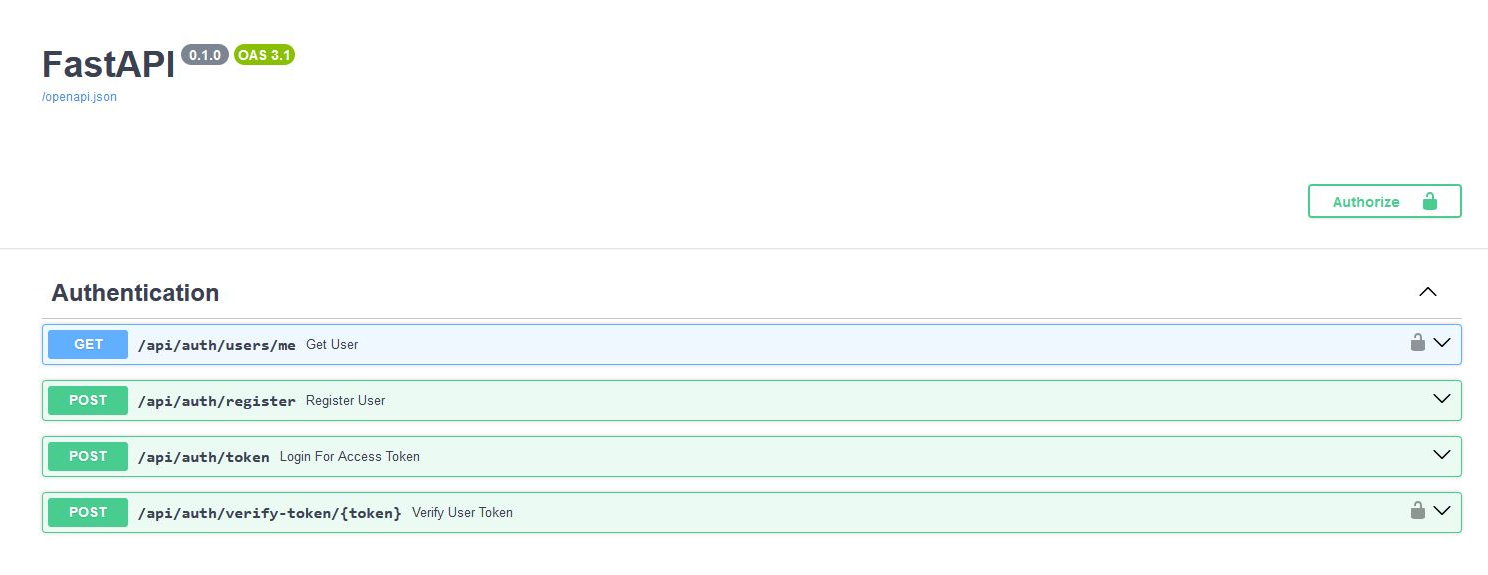
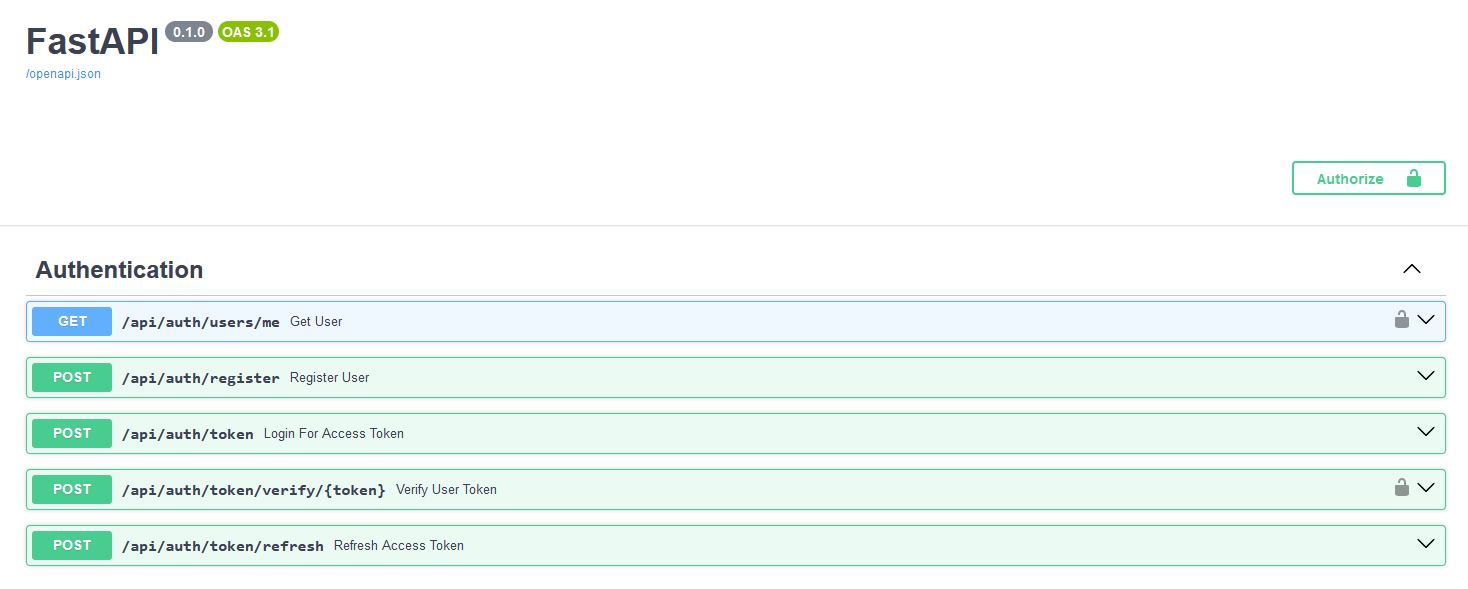
Zentra API - Auth updates (v0.1.13)
- docs(auth): Updated docs to accommodate auth changes (v0.1.13). (#5)

Changed region(s): [[0.0, 0.4435, 1.0, 0.9757], [0.0, 0.0296, 0.2146, 0.1774], [0.8583, 0.2661, 1.0, 0.3843]]

diff --git a/docs/api/tutorial/authentication.md b/docs/api/tutorial/authentication.md
@@ -37,7 +37,7 @@ The `auth` directory is just another set of API routes but separated for conveni
     We plan to add a `--no-auth` flag in a future version that will do all of this for you, but 9 times out of 10 you'll need authentication anyway! 😁
 
 
-The main thing you need to know here is how the routes works, rather than the underlying functionality. Feel free to explore the code yourself! It's almost identical to this [FastAPI [:material-arrow-right-bottom:]](https://fastapi.tiangolo.com/tutorial/security/oauth2-jwt/) security tutorial just with a bit of Zentra flair.
+The main thing you need to know here is how the routes work, rather than the underlying functionality. Feel free to explore the code yourself! It's an extension of the [FastAPI [:material-arrow-right-bottom:]](https://fastapi.tiangolo.com/tutorial/security/oauth2-jwt/) security tutorial with refresh tokens and a bit of Zentra flair 😉.
 
 Okay, now let's check out our routes!
 
@@ -45,14 +45,17 @@ Okay, now let's check out our routes!
 
 !!! note
 
-    All authentication routes start with [`api/auth/`](#routes)! 
+    All authentication routes start with [`api/auth/`](#routes). This simple naming convention keeps our API consistent and easy to use.
 
-Zentra API has four starting authentication routes:
+    We follow the same pattern with our token routes - [`api/auth/token`](#routes).
+
+Zentra API has five starting authentication routes:
 
 1. [`/api/auth/users/me`](#get-user) - retrieves the user's own details, if they are authenticated.
 2. [`/api/auth/register`](#register-user) - creates a user in the database given a `username` and `password`.
 3. [`/api/auth/token`](#login-for-access-token) - provides an access token for the user, if their login details are correct
-4. [`/api/auth/verify-token/{token}`](#verify-user-token) - verifies that an access token is valid (e.g., hasn't expired yet)
+4. [`/api/auth/token/verify/{token}`](#verify-user-token) - verifies that an access token is valid (e.g., hasn't expired yet)
+5. [`/api/auth/token/refresh`](#refresh-access-token) - creates a new access token from the refresh token 
 
 ### Get User
 
@@ -283,11 +286,36 @@ Here's an example of the routes responses:
 
     [`/api/auth/token`](#login-for-access-token)
 
-Next, we have the login for access token route. This generates a new access token when a user provides valid login credentials. 
+Next, we have our login route for retrieving an access and refresh token. Access and refresh tokens are JSON Web Tokens (JWTs) that act as a form of authentication to the API. They both have a slightly different purpose. Here's a brief overview:
 
-It's specific to JSON Web Tokens (JWTs) and is a common way to securely login your users. 
+- **Access token** - allows the user to use the API
+- **Refresh token** - acts as a user session for a period of time 
 
-JWTs are out of the scope of this tutorial, but we highly recommend you check out these links from [JWT.io [:material-arrow-right-bottom:]](https://jwt.io/introduction) and [Auth0 [:material-arrow-right-bottom:]](https://auth0.com/learn/json-web-tokens) for more information.
+In our case, we use the `HS256` algorithm for encryption with a `15` minute expiry for access tokens and a `7` day expiry for refresh tokens. They use the `AUTH__SECRET_ACCESS_KEY` and `AUTH__SECRET_REFRESH_KEY`, respectively, found in your `.env` file. 
+
+??? info "Updating Auth Settings"
+
+    We want to provide a solution that works out of the box without overwhelming you with configuration settings, so we deliberately fixed the algorithm and expiry times - it's less things to worry about!
+
+    However, if you need more flexibility you can tweak these settings using the `.env` file. Here's an example:
+
+    ```toml title=".env" hl_lines="5-7"
+    ...
+    # Authentication configuration details
+    AUTH__SECRET_ACCESS_KEY=c_KnbHr01TI5qjsAZoGLpeZrpdK4u5AOy7RXHFpsMeE # (1)!
+    AUTH__SECRET_REFRESH_KEY=M2Myg1Z2vfUNHzIBVcsKhZCcFi6n4knNLv57Gip6a3M
+    AUTH__ALGORITHM="HS256" # (2)!
+    AUTH__ACCESS_TOKEN_EXPIRE_MINS=15  # (3)!
+    AUTH__REFRESH_TOKEN_EXPIRE_MINS=10080  # (4)!
+    ...
+    ```
+
+    1. The JWT encryption keys. Keep them secret, keep them safe! 🤫 
+    2. The encryption algorithm. Currently, this is limited to three options: `['HS256', 'HS384', 'HS512']`
+    3. The access token expiration time in minutes
+    4. The refresh token expiration time in minutes. `10080 = 7 days`. This always lasts longer than your access token
+
+JWTs are out of the scope of this tutorial, but if you want to learn more, we highly recommend you check out these links from [JWT.io [:material-arrow-right-bottom:]](https://jwt.io/introduction) and [Auth0 [:material-arrow-right-bottom:]](https://auth0.com/learn/json-web-tokens).
 
 Here's an example of the routes responses:
 
@@ -295,7 +323,8 @@ Here's an example of the routes responses:
 
     ```json title=""
     {
-        "access_token": "eyJhbGciOiJIUzI1NiIsInR5cCI6IkpXVCJ9.eyJzdWIiOiJ0ZXN0IiwiZXhwIjoxNzI2NDMwMTc5fQ.hvEZ8j-IclgSufY58I_5hB0L4mEtkhkjHORygohMs50",
+        "access_token": "eyJhbGciOiJIUzI1NiIsInR5cCI6IkpXVCJ9.eyJzdWIiOiJ0ZXN0IiwiZXhwIjoxNzI1ODg2MjkwfQ.9nkNDi-_6uel6nUIiAHELrB8j1CqK1h-N7hx2QwRYxw",
+        "refresh_token": "eyJhbGciOiJIUzI1NiIsInR5cCI6IkpXVCJ9.eyJzdWIiOiJ0ZXN0IiwiZXhwIjoxNzI2NDkwMTkwfQ.pw5wtaLPq14h0nzbbhSmq-C1qfwYsLsxvNTozzfG4HM",
         "token_type": "bearer"
     }
     ```
@@ -318,9 +347,9 @@ Here's an example of the routes responses:
 
 ??? api "Route"
 
-    [`/api/auth/verify-token/{token}`](#verify-user-token)
+    [`/api/auth/token/verify/{token}`](#verify-user-token)
 
-The final route compliments the previous one and simplify verifies that an access token is valid using your `AUTH__SECRET_KEY` in your `.env` file. 
+This route compliments the previous one and simply verifies that an access token is valid using your `AUTH__SECRET_ACCESS_KEY` in your `.env` file. 
 
 Here's an example of the routes responses:
 
@@ -346,6 +375,42 @@ Here's an example of the routes responses:
         "code": 401,
         "response": "401_UNAUTHORIZED",
         "message": "Not authenticated.",
+        "headers": {
+            "WWW-Authenticate": "Bearer"
+        }
+    }
+    ```
+
+### Refresh Access Token
+
+??? api "Route"
+
+    [`/api/auth/token/refresh`](#refresh-access-token)
+
+The last route is another simple one! Given a refresh token it creates a new access token for the user.
+
+When working with frontend applications, you'll often find yourself using this route and the token verification one together. After all, when an access token expires, you'll need to refresh it!
+
+Here's an example of the routes responses:
+
+=== "201 Created"
+
+    ```json title=""
+    {
+        "access_token": "eyJhbGciOiJIUzI1NiIsInR5cCI6IkpXVCJ9.eyJzdWIiOiJ0ZXN0IiwiZXhwIjoxNzI1ODg2MzQzfQ.rQBlpSx6UQgz8U52mSeVqb6-B7Xe8vKUTVO4ghJyaQU",
+        "refresh_token": "eyJhbGciOiJIUzI1NiIsInR5cCI6IkpXVCJ9.eyJzdWIiOiJ0ZXN0IiwiZXhwIjoxNzI2NDkwMTkwfQ.pw5wtaLPq14h0nzbbhSmq-C1qfwYsLsxvNTozzfG4HM",
+        "token_type": "bearer"
+    }
+    ```
+
+=== "401 Unauthorized"
+
+    ```json title=""
+    {
+        "status": "error",
+        "code": 401,
+        "response": "401_UNAUTHORIZED",
+        "message": "Invalid refresh token.",
         "headers": {
             "WWW-Authenticate": "Bearer"
         }

diff --git a/docs/api/tutorial/first-steps.md b/docs/api/tutorial/first-steps.md
@@ -146,7 +146,7 @@ The `.env` file is an essential piece of the project for connecting the database
 
 Here's an example of what yours might look like with a project name of `deep_dive`:
 
-```toml title=".env" hl_lines="6 9"
+```toml title=".env" hl_lines="6 9-10"
 # Database details
 DB__URL=sqlite:///./dev_db.db
 # DB__URL=postgresql://user:password@postgresserver/db
@@ -155,7 +155,8 @@ DB__FIRST_SUPERUSER=admin@example.com
 DB__FIRST_SUPERUSER_PASSWORD=p3qtC5sKhRHJjO3ydDVwfQ
 
 # Authentication configuration details
-AUTH__SECRET_KEY=JijXH8sD1d5x3T4sheWShqNDY64S3oIaMCHyJycOsPE
+AUTH__SECRET_ACCESS_KEY=c_KnbHr01TI5qjsAZoGLpeZrpdK4u5AOy7RXHFpsMeE
+AUTH__SECRET_REFRESH_KEY=M2Myg1Z2vfUNHzIBVcsKhZCcFi6n4knNLv57Gip6a3M
 
 # Project settings
 # This would be set to the production domain with an env var on deployment
